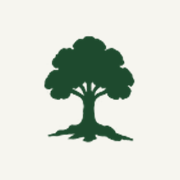
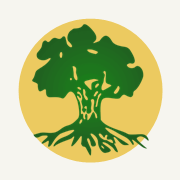
מסך כניסה: סמל גולני עם אנימציה בלולאה; לוגו ואייקונים מהסמל

diff --git a/index.html b/index.html
@@ -38,8 +38,7 @@
   --f-body: "Assistant", "Segoe UI", Arial, sans-serif;
   --r: 18px;
   /* login tree */
-  --tree-trunk: #2A3D2C; --leaf-1: #1E4A2D; --leaf-2: #2F6B43; --leaf-3: #5A8F5F; --leaf-4: #9CC08F;
-  --sun: rgba(236, 199, 84, .42); --ground: #DCE4D0;
+  --sun: rgba(236, 199, 84, .62); --ground: #DCE4D0;
   color-scheme: light;
 }
 @media (prefers-color-scheme: dark) {
@@ -49,8 +48,7 @@
     --ok: #7FD39C; --ok-bg: #1C3324; --warn: #E9B865; --warn-bg: #3A2D16;
     --bad: #F09486; --bad-bg: #3D1F1B; --none: #A5ADA6; --none-bg: #262D27;
     --shadow: 0 1px 2px rgba(0,0,0,.3); color-scheme: dark;
-    --tree-trunk: #7E957F; --leaf-1: #2C5A39; --leaf-2: #3F7A50; --leaf-3: #63A06E; --leaf-4: #9CCBA6;
-    --sun: rgba(214, 176, 66, .16); --ground: #1A231C;
+    --sun: rgba(222, 184, 72, .5); --ground: #1A231C;
   }
   .brand img { filter: brightness(2.6) saturate(.6); }
 }
@@ -940,104 +938,109 @@ $('#passForm').addEventListener('submit', async e => {
   $('#passDlg').close(); toast('הסיסמה הוחלפה');
 });
 
-/* ---------- sign-in tree: drawn once per load, grows in, then stays ---------- */
-let treeEl = null;
+/* ---------- sign-in art: the Golani emblem on a golden sun, looping (breeze, sheen, falling leaves) ---------- */
+let treeEl = null, treeKick = null;
 function treeArt() {
-  if (treeEl) return treeEl;
+  if (treeEl) { treeKick(); return treeEl; }
   const canvas = h('canvas', { 'aria-hidden': 'true' });
   treeEl = h('div', { class: 'gate-art' }, canvas);
   const reduce = matchMedia('(prefers-reduced-motion: reduce)').matches;
-  let model = null, start = 0, done = reduce;
-
-  function rng(seed) { return () => { seed |= 0; seed = seed + 0x6D2B79F5 | 0; let t = Math.imul(seed ^ seed >>> 15, 1 | seed);
-    t = t + Math.imul(t ^ t >>> 7, 61 | t) ^ t; return ((t ^ t >>> 14) >>> 0) / 4294967296; }; }
-
-  // Branches as quadratic segments, leaves as blobs; same seed every time so the tree keeps its shape.
-  function build(w, hgt) {
-    const r = rng(1948);
-    const L0 = Math.min(w * 0.125, hgt * 0.165);
-    const base = { x: w / 2, y: hgt * 0.9 };
-    const segs = [], blobs = [], MAX = 7;
-    function branch(x, y, ang, len, width, d) {
-      const x2 = x + Math.cos(ang) * len, y2 = y + Math.sin(ang) * len;
-      const bend = (r() - .5) * len * .35;
-      const cx = (x + x2) / 2 + Math.cos(ang + Math.PI / 2) * bend, cy = (y + y2) / 2 + Math.sin(ang + Math.PI / 2) * bend;
-      segs.push({ x, y, cx, cy, x2, y2, w: width, d });
-      if (d >= 3) {
-        const n = d >= 5 ? 3 : 2;
-        for (let i = 0; i < n; i++) blobs.push({ x: x2 + (r() - .5) * L0 * .35, y: y2 + (r() - .5) * L0 * .3, r: L0 * (.13 + r() * .12), d, tone: r() });
-      }
-      if (d >= MAX) return;
-      const kids = d < 2 ? 3 : (r() < .55 ? 2 : 3);
-      const spread = d === 0 ? 1.15 : d < 3 ? .95 : .75;
-      for (let i = 0; i < kids; i++) {
-        const t = kids === 1 ? 0 : i / (kids - 1) - .5;
-        let a = ang + t * spread + (r() - .5) * .3;
-        a = Math.max(-Math.PI + .25, Math.min(-.25, a)); // keep growing upward and outward
-        branch(x2, y2, a, len * (.7 + r() * .12), width * .66, d + 1);
-      }
-    }
-    branch(base.x, base.y, -Math.PI / 2, L0 * 1.15, L0 * .26, 0);
-    const roots = [-.35, -.15, .15, .38].map(k => ({ k, len: L0 * (.45 + r() * .3) }));
-    let minY = Infinity; for (const b of blobs) minY = Math.min(minY, b.y - b.r);
-    blobs.sort((a, b) => a.y - b.y);
-    return { w, hgt, L0, base, segs, blobs, roots, canopyY: (minY + base.y - L0 * 1.15) / 2 };
-  }
-
-  const lerp = (a, b, t) => a + (b - a) * t;
-  function draw(p) {
-    const dpr = Math.min(2, devicePixelRatio || 1);
-    const ctx = canvas.getContext('2d'); ctx.setTransform(dpr, 0, 0, dpr, 0, 0);
-    const { w, hgt, L0, base, segs, blobs, roots, canopyY } = model;
-    const css = getComputedStyle(document.documentElement), c = n => css.getPropertyValue(n).trim();
-    ctx.clearRect(0, 0, w, hgt);
-    // sun behind the canopy
-    const sunR = Math.min(w, hgt) * .36 * (.85 + .15 * Math.min(1, p * 2));
-    ctx.fillStyle = c('--sun'); ctx.beginPath(); ctx.arc(base.x + L0 * .25, canopyY, sunR, 0, Math.PI * 2); ctx.fill();
-    // ground
-    ctx.fillStyle = c('--ground'); ctx.beginPath(); ctx.ellipse(base.x, base.y + L0 * .08, L0 * 1.9, L0 * .2, 0, 0, Math.PI * 2); ctx.fill();
-    ctx.strokeStyle = c('--tree-trunk'); ctx.lineCap = 'round';
-    // roots
-    for (const rt of roots) {
-      ctx.lineWidth = L0 * .07; ctx.beginPath(); ctx.moveTo(base.x, base.y - L0 * .05);
-      ctx.quadraticCurveTo(base.x + rt.k * rt.len * 1.2, base.y, base.x + rt.k * rt.len * 2, base.y + L0 * .06); ctx.stroke();
-    }
-    // branches, depth by depth
-    const steps = 7 + 2;
-    for (const s of segs) {
-      const t = Math.max(0, Math.min(1, p * steps - s.d)); if (t <= 0) continue;
-      const ax = lerp(s.x, s.cx, t), ay = lerp(s.y, s.cy, t), bx = lerp(s.cx, s.x2, t), by = lerp(s.cy, s.y2, t);
-      ctx.lineWidth = Math.max(1, s.w); ctx.beginPath(); ctx.moveTo(s.x, s.y); ctx.quadraticCurveTo(ax, ay, lerp(ax, bx, t), lerp(ay, by, t)); ctx.stroke();
-    }
-    // leaves: shade, body, highlight
-    const lp = Math.max(0, Math.min(1, (p - .45) / .55)); if (lp <= 0) return;
-    const tones = [c('--leaf-1'), c('--leaf-2'), c('--leaf-3')];
-    for (const pass of [0, 1, 2]) for (const b of blobs) {
-      const appear = Math.max(0, Math.min(1, lp * 1.6 - (b.d - 3) * .12)); if (!appear) continue;
-      const rr = b.r * appear * (pass === 0 ? 1.12 : pass === 1 ? 1 : .5);
-      ctx.globalAlpha = pass === 2 ? .55 : .92;
-      ctx.fillStyle = pass === 0 ? tones[0] : pass === 1 ? tones[b.tone < .4 ? 1 : 2] : c('--leaf-4');
-      ctx.beginPath(); ctx.arc(b.x + (pass === 0 ? -rr * .12 : pass === 2 ? rr * .35 : 0), b.y + (pass === 0 ? rr * .14 : pass === 2 ? -rr * .45 : 0), rr, 0, Math.PI * 2); ctx.fill();
-    }
-    ctx.globalAlpha = 1;
-  }
+  const img = new Image(); img.src = 'art/emblem.png';
+  const off = document.createElement('canvas'), fx = document.createElement('canvas');
+  let L = null, t0 = 0, running = false, leaves = [];
 
   function fit() {
-    const box = treeEl.getBoundingClientRect(); if (!box.width || !box.height) return;
+    const box = treeEl.getBoundingClientRect(); if (!box.width || !box.height || !img.complete || !img.naturalWidth) return;
     const dpr = Math.min(2, devicePixelRatio || 1);
     canvas.width = Math.round(box.width * dpr); canvas.height = Math.round(box.height * dpr);
-    model = build(box.width, box.height);
-    if (done) draw(1);
+    const ratio = img.naturalWidth / img.naturalHeight;
+    const eh = Math.min(box.height * .8, box.width * .78 / ratio), ew = eh * ratio;
+    const pad = Math.ceil(eh * .03);
+    off.width = Math.round(ew * dpr); off.height = Math.round(eh * dpr);
+    const o = off.getContext('2d'); o.imageSmoothingQuality = 'high'; o.drawImage(img, 0, 0, off.width, off.height);
+    fx.width = off.width + pad * 2 * dpr; fx.height = off.height;
+    L = { w: box.width, h: box.height, dpr, ew, eh, pad, x: (box.width - ew) / 2, y: box.height * .9 - eh };
+    if (!running) draw(reduce ? 9 : 0);
   }
+
+  const rand = (a, b) => a + Math.random() * (b - a);
+  function spawnLeaf(now, first) {
+    return { born: now + (first ? rand(0, 6000) : rand(300, 2500)), life: rand(5200, 8000),
+      x: L.x + L.ew * rand(.18, .85), y: L.y + L.eh * rand(.12, .45), drift: rand(.5, 1.4) * (Math.random() < .5 ? -1 : 1),
+      size: L.eh * rand(.022, .034), spin: rand(-2.2, 2.2), phase: rand(0, 6.28) };
+  }
+
+  function draw(sec) {
+    if (!L) return;
+    const { w, hgt = L.h, dpr, ew, eh, pad, x, y } = L;
+    const ctx = canvas.getContext('2d'); ctx.setTransform(dpr, 0, 0, dpr, 0, 0); ctx.clearRect(0, 0, w, hgt);
+    const css = getComputedStyle(document.documentElement), c = n => css.getPropertyValue(n).trim();
+    const intro = Math.min(1, sec / 1.6), ease = 1 - Math.pow(1 - intro, 3);
+
+    // sun with a slow breathing halo
+    const cx = x + ew * .5, cy = y + eh * .36, R = ew * .6 * (.8 + .2 * ease) * (1 + .015 * Math.sin(sec * .9));
+    const halo = ctx.createRadialGradient(cx, cy, R * .9, cx, cy, R * (1.35 + .08 * Math.sin(sec * .6)));
+    halo.addColorStop(0, c('--sun')); halo.addColorStop(1, 'rgba(0,0,0,0)');
+    ctx.globalAlpha = .55 * ease; ctx.fillStyle = halo; ctx.beginPath(); ctx.arc(cx, cy, R * 1.5, 0, Math.PI * 2); ctx.fill();
+    ctx.globalAlpha = ease; ctx.fillStyle = c('--sun'); ctx.beginPath(); ctx.arc(cx, cy, R, 0, Math.PI * 2); ctx.fill();
+    ctx.globalAlpha = 1;
+    // ground
+    ctx.fillStyle = c('--ground'); ctx.beginPath(); ctx.ellipse(cx, y + eh * .965, ew * .62, eh * .045, 0, 0, Math.PI * 2); ctx.fill();
+
+    // emblem in strips: canopy sways, trunk and roots stay put
+    const f = fx.getContext('2d'); f.setTransform(1, 0, 0, 1, 0, 0); f.clearRect(0, 0, fx.width, fx.height);
+    const A = reduce ? 0 : eh * .011, trunkTop = .58, step = 2;
+    for (let sy = 0; sy < off.height; sy += step) {
+      const v = sy / off.height, k = Math.pow(Math.max(0, (trunkTop - v) / trunkTop), 1.4);
+      const dx = (A * k * (Math.sin(sec * 1.1 + v * 5) + .45 * Math.sin(sec * 2.6 + v * 13))) * dpr;
+      f.drawImage(off, 0, sy, off.width, step, pad * dpr + dx, sy, off.width, step);
+    }
+    // a golden sheen crossing the emblem every 7 seconds
+    if (!reduce) {
+      const ph = ((sec - 1.6) % 7) / 1.6;
+      if (sec > 1.6 && ph < 1) {
+        const bx = -fx.width * .4 + ph * fx.width * 1.8;
+        const g = f.createLinearGradient(bx, 0, bx + fx.width * .35, fx.height);
+        g.addColorStop(0, 'rgba(255,236,160,0)'); g.addColorStop(.5, 'rgba(255,236,160,.5)'); g.addColorStop(1, 'rgba(255,236,160,0)');
+        f.globalCompositeOperation = 'source-atop'; f.fillStyle = g; f.fillRect(0, 0, fx.width, fx.height); f.globalCompositeOperation = 'source-over';
+      }
+    }
+    // reveal from the roots up on first load
+    const revealTop = y + eh * (1 - ease);
+    ctx.save(); ctx.beginPath(); ctx.rect(0, revealTop, w, hgt); ctx.clip();
+    ctx.drawImage(fx, x - pad, y, fx.width / dpr, fx.height / dpr);
+    ctx.restore();
+
+    // falling leaves
+    if (!reduce && intro >= 1) {
+      const now = performance.now();
+      if (!leaves.length) leaves = Array.from({ length: 6 }, () => spawnLeaf(now, true));
+      ctx.fillStyle = '#2E8B3A';
+      leaves.forEach((lf, i) => {
+        const a = (now - lf.born) / lf.life;
+        if (a < 0) return;
+        if (a >= 1) { leaves[i] = spawnLeaf(now, false); return; }
+        const lx = lf.x + lf.drift * a * ew * .22 + Math.sin(a * 7 + lf.phase) * ew * .025;
+        const ly = lf.y + a * (y + eh * .95 - lf.y);
+        ctx.save(); ctx.translate(lx, ly); ctx.rotate(lf.phase + a * lf.spin * 3);
+        ctx.globalAlpha = Math.min(1, a * 6) * (1 - Math.pow(a, 3)) * .9;
+        ctx.beginPath(); ctx.moveTo(-lf.size, 0); ctx.quadraticCurveTo(0, -lf.size * .7, lf.size, 0); ctx.quadraticCurveTo(0, lf.size * .7, -lf.size, 0); ctx.fill();
+        ctx.restore();
+      });
+      ctx.globalAlpha = 1;
+    }
+  }
+
   function frame(now) {
-    if (!model) { requestAnimationFrame(frame); return; }
-    if (!start) start = now;
-    const t = Math.min(1, (now - start) / 2200), p = 1 - Math.pow(1 - t, 3);
-    draw(p); if (t < 1) requestAnimationFrame(frame); else done = true;
+    if (!treeEl.isConnected) { running = false; return; }
+    if (!t0) t0 = now;
+    draw((now - t0) / 1000);
+    requestAnimationFrame(frame);
   }
+  treeKick = () => { if (!reduce && !running) { running = true; requestAnimationFrame(frame); } };
+  img.onload = () => { fit(); treeKick(); };
   new ResizeObserver(fit).observe(treeEl);
-  matchMedia('(prefers-color-scheme: dark)').addEventListener('change', () => { if (model && done) draw(1); });
-  if (!reduce) requestAnimationFrame(frame);
+  matchMedia('(prefers-color-scheme: dark)').addEventListener('change', () => { if (reduce) draw(9); });
   return treeEl;
 }
 
